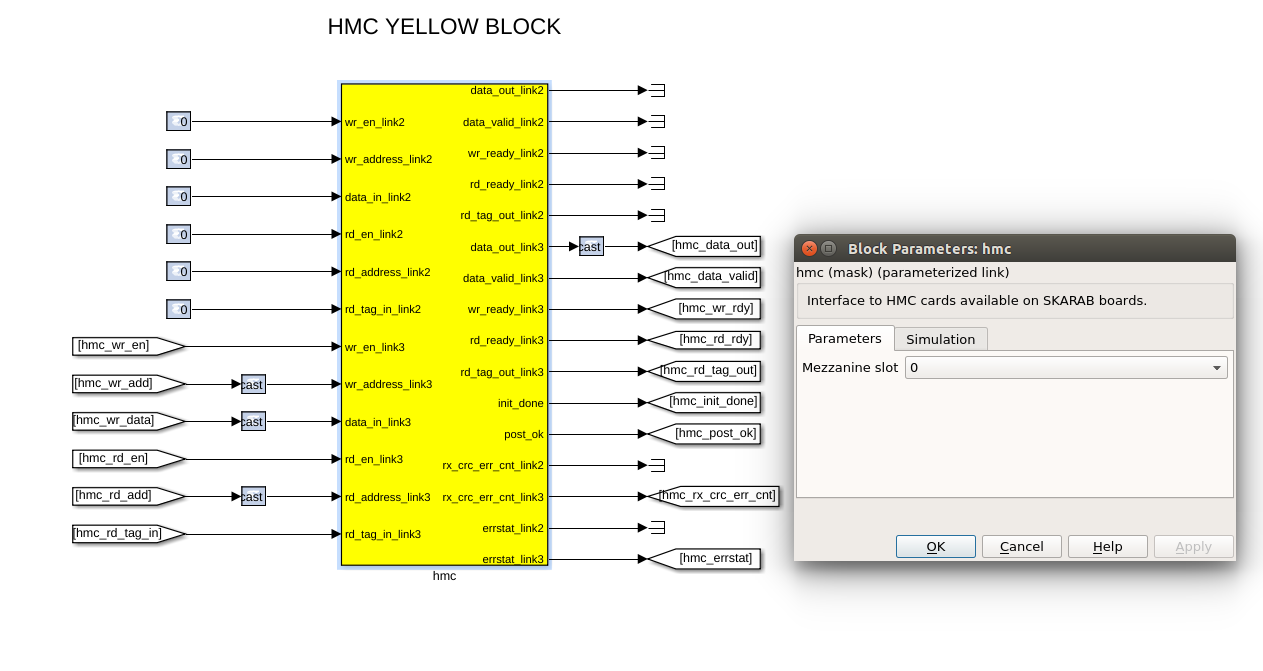
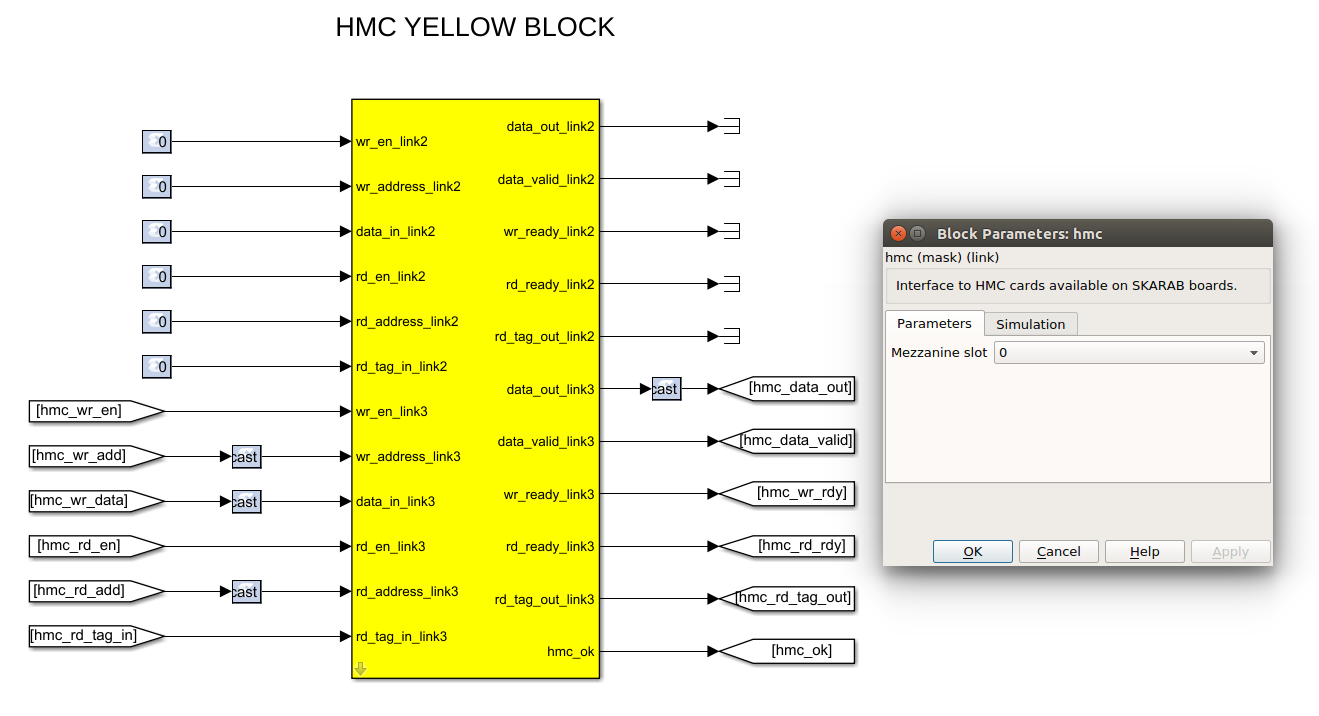
Updated SKARAB HMC tut with new updates The SKARAB HMC tutorial has been updated to reflect wishbone changes to the HMC in order to readback the OpenHMC controller internal registers. The HMC yellow block has been changed to combine the ERRSTAT, init_done and post_ok into a single output flag hmc_ok

diff --git a/docs/tutorials/skarab/tut_hmc.md b/docs/tutorials/skarab/tut_hmc.md
@@ -39,7 +39,7 @@ The HMC yellow block is using a 4GB device with 32 Byte Max Block size, which is
 
 More information on the HMC device (Rev D) and OpenHMC controller (Rev 1.5) can be found under the following repo (in the "hmc" folder):
 
-[https://github.com/ska-sa/skarab_docs](https://github.com/ska-sa/skarab_docs) (master branch)
+[SKARAB Docs](https://github.com/casper-astro/casper-hardware/tree/master/FPGA_Hosts/SKARAB/docs) (master branch)
 
 ## Create a new model ##
 Start Matlab and open Simulink (either by typing 'simulink' on the Matlab command line, or by clicking on the Simulink icon in the taskbar). A template is provided for this tutorial with a pre-created HMC reordering function, SKARAB XSG core config or platform block, Xilinx System Generator block and a 40GbE yellow block. Get a copy of this template and save it. Make sure the SKARAB XSG_core_config_block or platform block is configured for:
@@ -140,17 +140,17 @@ Link 2 is not used, so the outputs can be terminated, as shown below. Add the te
  
 ![](../../_static/img/skarab/tut_hmc/hmc_yellow_block_bp.png)
 
-#### Add registers to provide HMC status monitoring ####
-Add three yellow-block software registers to provide the HMC status (2 bits), HMC receive CRC error counter (16 bits) and the HMC receive FLIT protocol error status (7 bits). Name them as shown below. The registers should be
-configured to send their values to the processor. Connect them to the HMC yellow block as shown below using GoTo blocks. A Convert (cast) block is required to interface with the 32 bit registers. Delay blocks are also required. To workspace blocks from Simulink->Sinks are attached to the simulation outputs of the software registers.
+#### Add a register to provide HMC status monitoring ####
+Add one yellow-block software register to provide the HMC status (1 bit). Name it as shown below. The register should be
+configured to send its value to the processor. Connect it to the HMC yellow block as shown below using GoTo blocks. A Convert (cast) block is required to interface with the 32 bit registers. Delay blocks are also required. To workspace blocks from Simulink->Sinks are attached to the simulation outputs of the software registers.
 
-The HMC status is made up of the HMC initialisation done and HMC Power On Self Test (POST) OK flags. It takes a maximum of 1.2s for the HMC lanes to align and the initialisation process to complete. Once this is done then internally generated test data is written into the HMC. The data is then read out and compared with the data written in. If there is a match then POST passes and the POST OK flag is set to '1'. In this case, HMC initialisation done will be '1' when the initialisation is successful and the POST process has finished. The POST OK flag will only be set to '1' when the memory test is successful. Therefore, the user can only start writing and reading to/from the HMC when init_done and post_ok flag are both '1'. If any flags are '0' then the HMC did not properly start up. Refer to the HMC Data Rate Control functionality above, which uses these flags to only start the write and read process when they are asserted.
+The HMC status is made up of the HMC OK flag. If there are any errors with the HMC initialisation, HMC POST (Power On Self Test), FLIT transactions or HMC ERRSTAT register then this flag will be set to "0". It takes a maximum of 1.2s for the HMC lanes to align and the initialisation process to complete. Once this is done then internally generated test data is written into the HMC. The data is then read out and compared with the data written in. If there is a match then POST passes and the internal POST OK flag is set to '1'. In this case, HMC initialisation done will be '1' when the initialisation is successful and the POST process has finished. The internal POST OK flag will only be set to '1' when the memory test is successful. Therefore, the user can only start writing and reading to/from the HMC when HMC Ok is set to '1'. If this flag is '0' then the HMC did not properly start up or data has been corrupted. Refer to the HMC Data Rate Control functionality above, which uses this flag to only start the write and read process when they are asserted.
 
-The HMC receive CRC error counter will continue to increment if there are receive checksum errors encountered by the HMC firmware. This should always be 0.
-
-The HMC receive FLIT protocol error status register is 7 bits. If any of these bits are '1' then this means an error has occurred. This should always be '0'. In order to decode what this error means there is a table in the HMC data sheet on page 48 Table 20.
+The internal HMC receive FLIT protocol error status register (HMC ERRSTAT)  is 7 bits. If any of these bits are '1' then this means an error has occurred. This should always be '0'. In order to decode what this error means there is a table in the HMC data sheet on page 48 Table 20.
 
 ![](../../_static/img/skarab/tut_hmc/hmc_error_yellow_block_mon.png)
+
+The HMC is connected to the wishbone interface and hence, it is possible to read back the internal HMC status registers using casperfpga - see below for how to do this.
 
 ### Implement the HMC reordering functionality ###
 We will now implement logic to reorder the data that is read out of sequence from the HMC. This is critical, as the data is no use to us if it is out of sequence. This is already included in the template for this tutorial, so please use this functionality as is to save time. Some details are provided here for completeness.
@@ -255,13 +255,13 @@ Execution of this command will result in an output .bof and .fpg file in the 'ou
 ![](../../_static/img/skarab/tut_hmc/Tut1_outputs_dir_files.png)
 
 ## Programming the FPGA ##
-Reconfiguration of the SKARAB's SDRAM is done via the casperfpga python library. The casperfpga package for python, created by the SA-SKA group, wraps the Telnet commands in python. and is probably the most commonly used in the CASPER community. We will focus on programming and interacting with the FPGA using this method.
+Reconfiguration of the SKARAB's SDRAM is done via the casperfpga python library. The casperfpga package for python, created by the SA-SKA group, wraps the Telnet commands in python and is used in the CASPER community. We will focus on programming and interacting with the FPGA using this method.
 
 #### Getting the required packages ####
 
 These are pre-installed on the server in the workshop and you do not need to do any further configuration, but if you are not working from the lab then refer to the How To Setup CasperFpga Python Packages document for setting up the python libraries for casperfpga. This can be found in the "casperfpga" repo wiki (to be deprecated) located in GitHub and the ReadtheDocs casperfpga documentation link:
 
-[https://github.com/ska-sa/casperfpga/wiki](https://github.com/ska-sa/casperfpga/wiki)
+[casperfpga README.md](https://github.com/casper-astro/casperfpga)
 
 [https://casper-toolflow.readthedocs.io](https://casper-toolflow.readthedocs.io/)
 
@@ -313,7 +313,7 @@ The FPGA is now configured with your design. The registers can now be read back.
 fpga.read_uint('hmc_status') or fpga.registers.hmc_status.read_uint();
 ```
 
-The value returned should be 3, which indicates that the HMC has successfully completed initialisation and POST OK passes.
+The value returned should be 1, which indicates that the HMC has successfully completed initialisation, POST OK passes and data is not corrupted.
 
 If you need to write to the reg_cntrl register then do the following:
 
@@ -325,6 +325,15 @@ If you need to write to the reg_cntrl register then do the following:
  fpga.registers.reg_cntrl.write(wr_rd_en= True) , where wr_rd_en = False (disable HMC write/read), wr_rd_en = True (Enable the HMC write/read)
 ```
 
+You can read back the HMC mezzanine site, HMC die revisions and internal status registers by doing the following:
+
+```python
+fpga.hmcs.hmc.mezz_site, this returns the mezzanine site that fpga.hmcs.hmc is connected to
+ 
+fpga.hmcs.hmc.get_hmc_revision(), this reads back the HMC firmware and product revisions
+ 
+fpga.hmcs.hmc.get_hmc_status(), this reads back the HMC status of the OpenHMC Controller - refer to OpenHMC controller document to understand the status bits located under "hmc" in [SKARAB Docs](https://github.com/casper-astro/casper-hardware/tree/master/FPGA_Hosts/SKARAB/docs) (master branch) 
+```
 Manually typing these commands by hand will be cumbersome, so it is better to create a Python script that will do all of this for you. This is described below.
 
 #### Running a Python script and interacting with the FPGA ####
@@ -361,7 +370,7 @@ You should see something like this:
  hmc out cnt: 55527004
  hmc wr err: 0
  hmc rd err: 0
- hmc status: 3
+ hmc status: 1
  rx crc err cnt: 0
  hmc error status: 0
  done
@@ -466,7 +475,7 @@ can be clearly seen in the HMC reorder snapshot captured output.
 
 #### Other notes ####
 
-• iPython includes tab-completion. In case you forget which function to use, try typing library_name.<tab><tab>
+• iPython includes tab-completion. In case you forget which function to use, try typing library_name._tab_
 
 • There is also onboard help. Try typing library_name.function?
 
